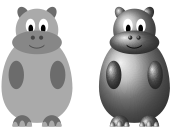
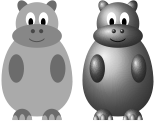
added rhino

diff --git a/tikzlings-doc.tex b/tikzlings-doc.tex
@@ -95,16 +95,16 @@
 	emphstyle=\color{red!60!black},
 	emph=[1]{
 		tikzlings,
-		tikzlings-marmots, tikzlings-bears, tikzlings-coatis, tikzlings-koalas, tikzlings-marmots, tikzlings-owls, tikzlings-penguins, tikzlings-snowmans, tikzlings-mice, tikzlings-moles, tikzlings-sloths, tikzlings-pigs, tikzlings-cats, tikzlings-hippos,
+		tikzlings-marmots, tikzlings-bears, tikzlings-coatis, tikzlings-koalas, tikzlings-marmots, tikzlings-owls, tikzlings-penguins, tikzlings-snowmans, tikzlings-mice, tikzlings-moles, tikzlings-sloths, tikzlings-pigs, tikzlings-cats, tikzlings-hippos, tikzlings-rhinos,
 		body, 3D, rotatehead, sideward, blush, sleeping, whiskers, teeth, shadow, askphil, leftstep, rightstep, eye, nose, pupil, bill, feet, belly, ask, phil, mouth, buttons, rotatearms, eyes, paws,
-		scale, yshift, xshift, rotate, hands, muzzle, schroedinger,
+		scale, yshift, xshift, rotate, hands, muzzle, schroedinger, toes,
 		hat, tophat, beret, strawhat, ribbon, harlequin, niuqelrah, witch, magichat, magicstars, crown, queencrown, kingcrown, santa, chef, graduate, tassel, alien, book, bookcolour, signpost, signcolour, signback, speech, think, bubblecolour, pizza, cheese, baguette, cake, icecream, flavoura, flavourb, flavourc, milkshake, wine, cricket, hockey, football, crystalball, magicwand, rollingpin, lightsaber, torch, basket, easter, egga, eggb, eggc, crozier, shovel, pickaxe, umbrella, umbrellaclosed, handbag, cocktail,
 	},
 	texcsstyle=*\color{SteelBlue!50!black}\bfseries,
 	keywordstyle=\color{red!60!black}\bfseries,
 	morekeywords={tikzpicture},
 	moretexcs={
-		usepackage, usetikzlibrary, marmot, coati, bear, koala, owl, penguin, thing, tikzling, snowman, mouse, moles, sloth, pig, cat, hippo,
+		usepackage, usetikzlibrary, marmot, coati, bear, koala, owl, penguin, thing, tikzling, snowman, mouse, moles, sloth, pig, cat, hippo, rhino,
 	},
 	delim ={[s][\ttfamily\color{green!50!black}]{$}{$}},
 	moredelim=[is][\footnotesize\ttfamily\color{orange!70!black}]{|}{|},
@@ -391,9 +391,14 @@ Finally the key \lstinline|3D| will make the coati 3-dimensional:
 
 \subsection{Options}
 
-The basic penguin can be modified by changing its colour:
+The basic hippo can be modified by changing its colour:
 \begin{tcblisting}{}
 \hippo[body=blue]
+\end{tcblisting}
+
+The hippo can also do its nails:
+\begin{tcblisting}{}
+\hippo[toes=red]
 \end{tcblisting}
 
 The key \lstinline|3D| will make the hippo 3-dimensional:
@@ -747,6 +752,48 @@ The key \lstinline|3D| will make the pig 3-dimensional:
 
 %%%%%%%%%%%%%%%%%%%%%%%%%%%%%%%%%%%%%%%%%%%%%%%%%%%%%%%%%%%%%%%%%%%%%%
 %
+% Rhino
+%
+%%%%%%%%%%%%%%%%%%%%%%%%%%%%%%%%%%%%%%%%%%%%%%%%%%%%%%%%%%%%%%%%%%%%%%
+\clearpage
+\section[Rhino]{D\"urer, the rhino}
+
+\emph{Named after Albert D\"urer who painted an amazing rhino merely based on stories}
+
+\subsection{Package name}
+
+\begin{tcolorbox}[lower separated=false, lefthand width=.8\linewidth]
+\vspace*{0.5cm}
+\lstinline|\usepackage{tikzlings-rhinos}| 
+\vspace*{0.5cm}
+\end{tcolorbox}
+
+\subsection{Basic Usage}
+
+\begin{tcblisting}{}
+\rhino
+\end{tcblisting}
+
+\subsection{Options}
+
+The basic rhino can be modified by changing its colour:
+\begin{tcblisting}{}
+\rhino[body=blue]
+\end{tcblisting}
+
+The hippo can also do its nails:
+\begin{tcblisting}{}
+\rhino[toes=red]
+\end{tcblisting}
+
+The key \lstinline|3D| will make the rhino 3-dimensional:
+\begin{tcblisting}{}
+\rhino[3D]
+\end{tcblisting}
+
+
+%%%%%%%%%%%%%%%%%%%%%%%%%%%%%%%%%%%%%%%%%%%%%%%%%%%%%%%%%%%%%%%%%%%%%%
+%
 % Sloth 
 %
 %%%%%%%%%%%%%%%%%%%%%%%%%%%%%%%%%%%%%%%%%%%%%%%%%%%%%%%%%%%%%%%%%%%%%%
@@ -942,8 +989,8 @@ A list of all available accessories is given below. For completeness the default
 \end{tcblisting}
 
 \begin{tcblisting}{}
-\owl[
-	witch=black
+\cat[
+	witch=gray
 ]
 \end{tcblisting}
 
@@ -1007,7 +1054,7 @@ A list of all available accessories is given below. For completeness the default
 \end{tcblisting}
 
 \begin{tcblisting}{}
-\mouse[
+\pig[
 	signpost={\TeX},
 	signcolour= brown!50!black,
 	signback=green!40!black
@@ -1084,7 +1131,7 @@ A list of all available accessories is given below. For completeness the default
 \end{tcblisting}
 
 \begin{tcblisting}{}
-\mouse[
+\hippo[
 	hockey=brown
 ]
 \end{tcblisting}
@@ -1161,7 +1208,7 @@ A list of all available accessories is given below. For completeness the default
 \end{tcblisting}
 
 \begin{tcblisting}{}
-\sloth[
+\rhino[
 	umbrella=cyan
 ]
 \end{tcblisting}

diff --git a/Examples/tikzlings.tex b/Examples/tikzlings.tex
@@ -62,6 +62,10 @@
 \end{tikzpicture}	
 \\
 \begin{tikzpicture}
+	\rhino
+\end{tikzpicture}	
+&
+\begin{tikzpicture}
 	\mouse
 \end{tikzpicture}	
 &
@@ -86,6 +90,10 @@
 \end{tikzpicture}	
 \\
 \begin{tikzpicture}
+	\rhino[3D]
+\end{tikzpicture}
+&	
+\begin{tikzpicture}
 	\mouse[3D]
 \end{tikzpicture}	
 &
@@ -108,7 +116,6 @@
 \begin{tikzpicture}
 	\hippo[3D]
 \end{tikzpicture}
-&	
 \end{tabular}
 
 \end{document}

diff --git a/Examples/rhino.tex b/Examples/rhino.tex
@@ -1,0 +1,15 @@
+\documentclass{standalone}
+
+\usepackage{tikzlings-rhinos}
+
+\begin{document}
+
+\begin{tikzpicture}
+\rhino
+\end{tikzpicture}	
+
+\begin{tikzpicture}
+\rhino[3D]
+\end{tikzpicture}	
+	
+\end{document}
